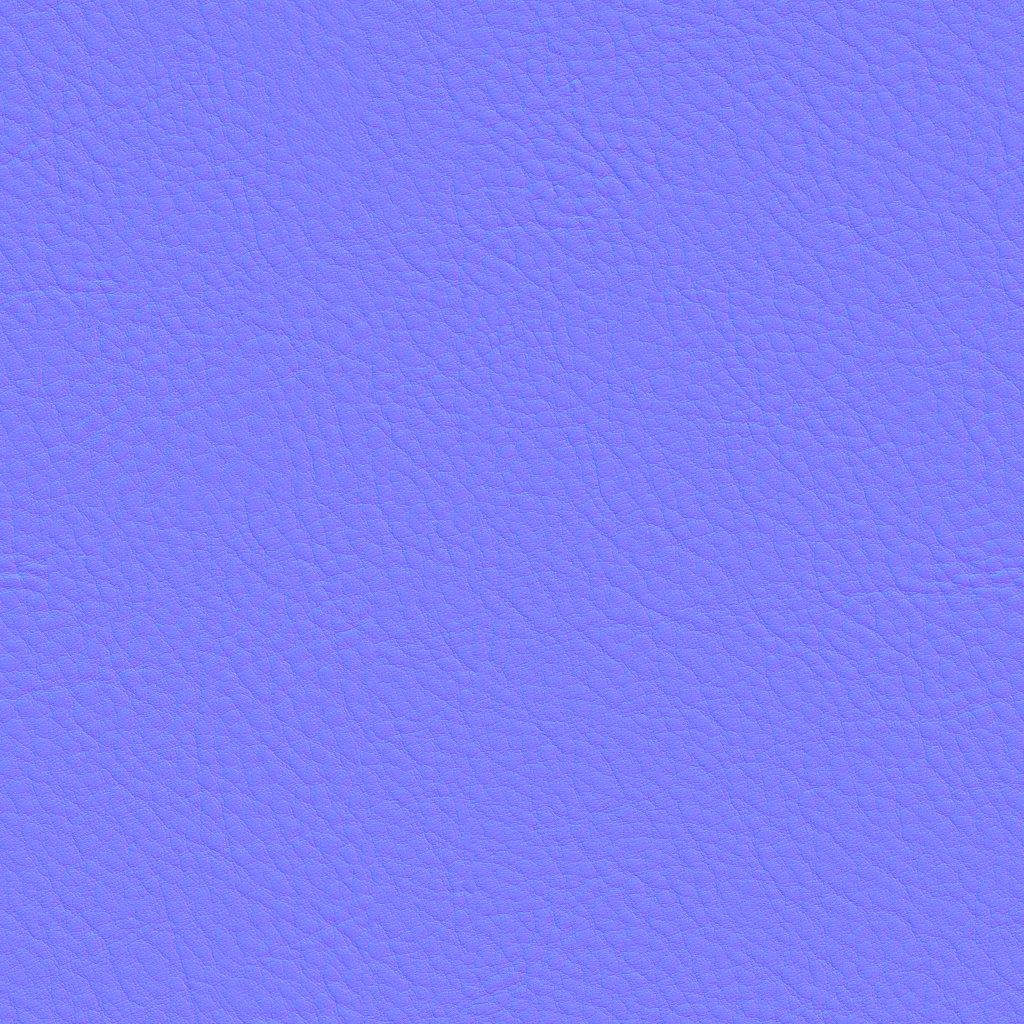
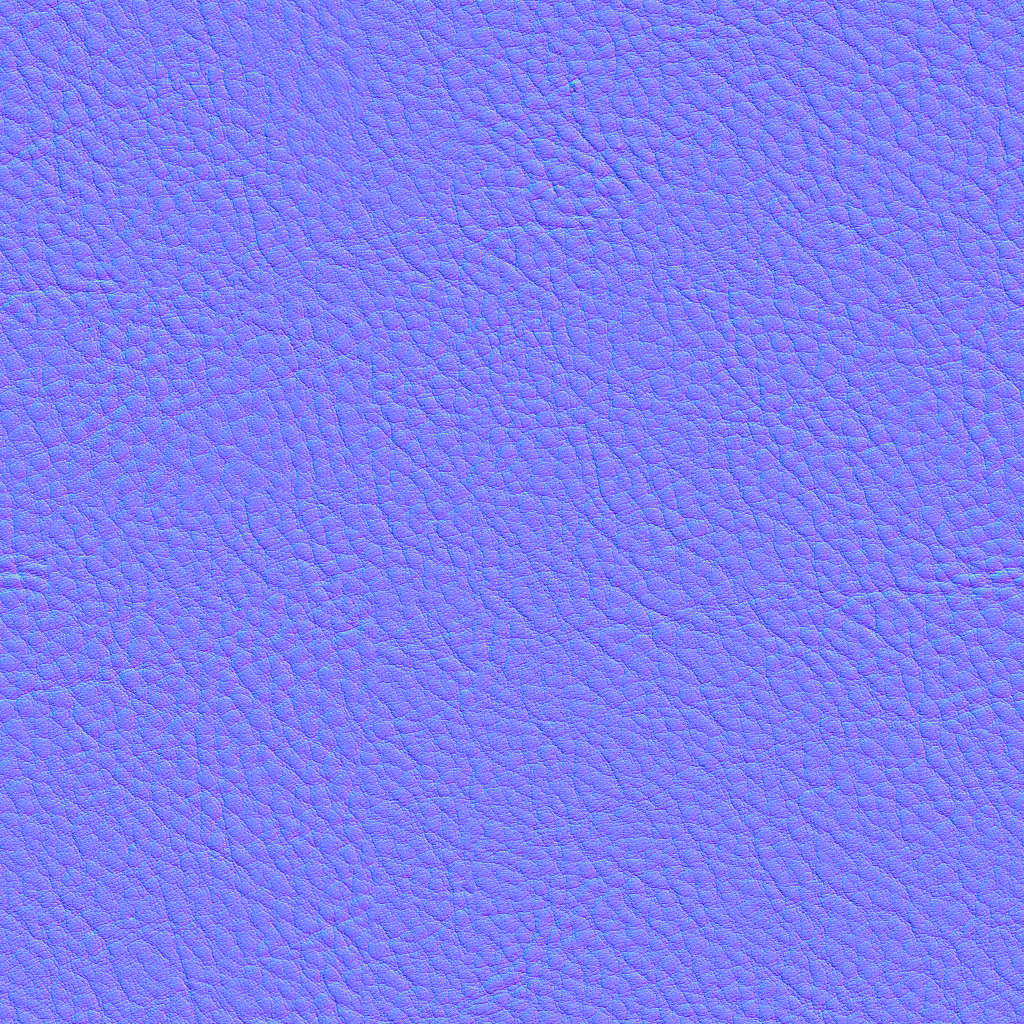
proto(suede-engine): leather grain 2.5x deeper (evened map) + grain depth to 4; fill light follows the surface (sky light); old shadow-format migration fixed

Changed region(s): [[0.0, 0.0, 1.0, 1.0]]

diff --git a/_prototypes/suede-engine/suede-final.html b/_prototypes/suede-engine/suede-final.html
@@ -161,7 +161,7 @@ const GROUP_OF=k=>Object.keys(GROUPS).find(g=>GROUPS[g].includes(k));
 const GNAME={ light:'light', rim:'rim', shadow:'shadow' };
 let G; try{ G=JSON.parse(localStorage.getItem('onemo-global')); }catch(_){}
 G=G||{};
-if(!G.shadow){ G.shadow={ shLift:6, shadow:.5, shBlur:.5, shSpread:0, shDist:1, shContact:1 }; for(const k of GROUPS.shadow) if(G[k]!==undefined){ G.shadow[k]=G[k]; delete G[k]; } }   // shadow was top-level: keep your values
+if(!G.shadow||typeof G.shadow!=='object'){ const sh={ shLift:6, shadow:.5, shBlur:.5, shSpread:0, shDist:1, shContact:1 }; for(const k of GROUPS.shadow) if(G[k]!==undefined&&typeof G[k]!=='object'){ sh[k]=G[k]; delete G[k]; } G.shadow=sh; }   // shadow used to be top-level (its strength key is also called 'shadow'): keep your values
 const saveG=(seed)=>{ if(!seed) touch(); try{ localStorage.setItem('onemo-global',JSON.stringify(G)); }catch(_){} pushSpec(); };
 const LIGHT_KEYS=GROUPS.light;   // the lamp. Studio + reflections stay per material (they make gloss/leather/matte shine)
 for(const k in G.light||{}) if(!LIGHT_KEYS.includes(k)) delete G.light[k];   // drop studio/reflection keys from older saves
@@ -342,7 +342,7 @@ const CTL=[
   ['Nap, wash & highlights',[['t_ksSheen','highlights',0,1,.01],['t_ksGrainSize','nap size (px)',.6,6,.05],['t_ksGrain','nap strength',0,1,.01],['t_wash','wash (nap / crush patches)',0,1,.01],['t_washScale','wash size',1,12,.1],['t_washSeed','wash layout (reseed)',0,99,1],
     ['t_ksBack','backscatter (milky veil)',0,1,.01],['t_ks','velvet lobe',0,2,.01],['t_ksBump','brushed patches (bump)',0,3,.01],['t_ksEdge','edginess',1,20,.1],['t_rim','velvet edge glow',0,.8,.01],['t_haze','fuzz haze',0,.4,.005],
     ['t_detail','fibre detail (scan mottling)',0,1,.01],['t_detailGain','fibre visibility',1,30,.1],['t_detailTile','fibre size',.25,6,.05,'inv'],['t_fall','pile fall-off glow',0,1.5,.01],['t_fallPow','fall-off softness',1,6,.1,'inv'],['t_fallTint','fall-off colour from print',0,1,.01]],0],
-  ['Surface & reflections',[['t_depth','grain depth',0,2,.01],['t_rough','reflection softness',.02,1,.01],['t_spec','highlight strength',0,2,.01],['t_box','softbox (light spot)',0,15,.1],['t_tile','grain fineness',1,8,.25],['t_ao','grain shadows (AO)',0,1,.01],
+  ['Surface & reflections',[['t_depth','grain depth',0,4,.01],['t_rough','reflection softness',.02,1,.01],['t_spec','highlight strength',0,2,.01],['t_box','softbox (light spot)',0,15,.1],['t_tile','grain fineness',1,8,.25],['t_ao','grain shadows (AO)',0,1,.01],
     ['t_sheen','sheen (fabric glow)',0,1,.01],['t_sheenRough','sheen softness',.1,1,.01],['t_sheenTint','sheen colour from print',0,1,.01],['t_coat','clear coat',0,1,.01],['t_coatRough','coat sharpness',0,.5,.005,'inv']],0],
   ['Print on suede',[['print','print on suede','toggle'],['soften','soften',0,.4,.01],['lift','black lift',0,.2,.005],['blur','blur px',0,1.5,.05]],1],
   ['Material (physically based)',[['pbr','material lighting','toggle'],['pnsrc','surface','seg',['suede','leather','ink','flat']],['ptile','fineness',1,10,.25],['pnorm','surface depth',0,1,.01],

diff --git a/_prototypes/suede-engine/three-card.js b/_prototypes/suede-engine/three-card.js
@@ -67,8 +67,8 @@ export function createThreeCard(size) {
   camera.position.set(0, 0, 1 / (2 * Math.tan(15 * Math.PI / 180)));   // the card exactly fills the frame
   const key = new THREE.PointLight(0xffffff, 1, 0, 2);   // physical fall-off: closer = brighter, tighter hotspot
   scene.add(key);
-  const fill = new THREE.AmbientLight(0xffffff, 0);   // ambient fill: lifts the shadow side evenly, no direction
-  scene.add(fill);
+  const fill = new THREE.HemisphereLight(0xffffff, 0x3a3a3a, 0);   // fill: soft sky light from above-front — lifts shadows but, unlike flat ambient, still follows the surface so grain survives
+  fill.position.set(0, .8, .6); scene.add(fill);
   /* the softbox: a rectangular area light near the card — a smooth, resolution-free light spot on matte,
      a satin glow on leather, a clean rectangular reflection on gloss */
   const box = new THREE.RectAreaLight(0xffffff, 6, .55, .38);
